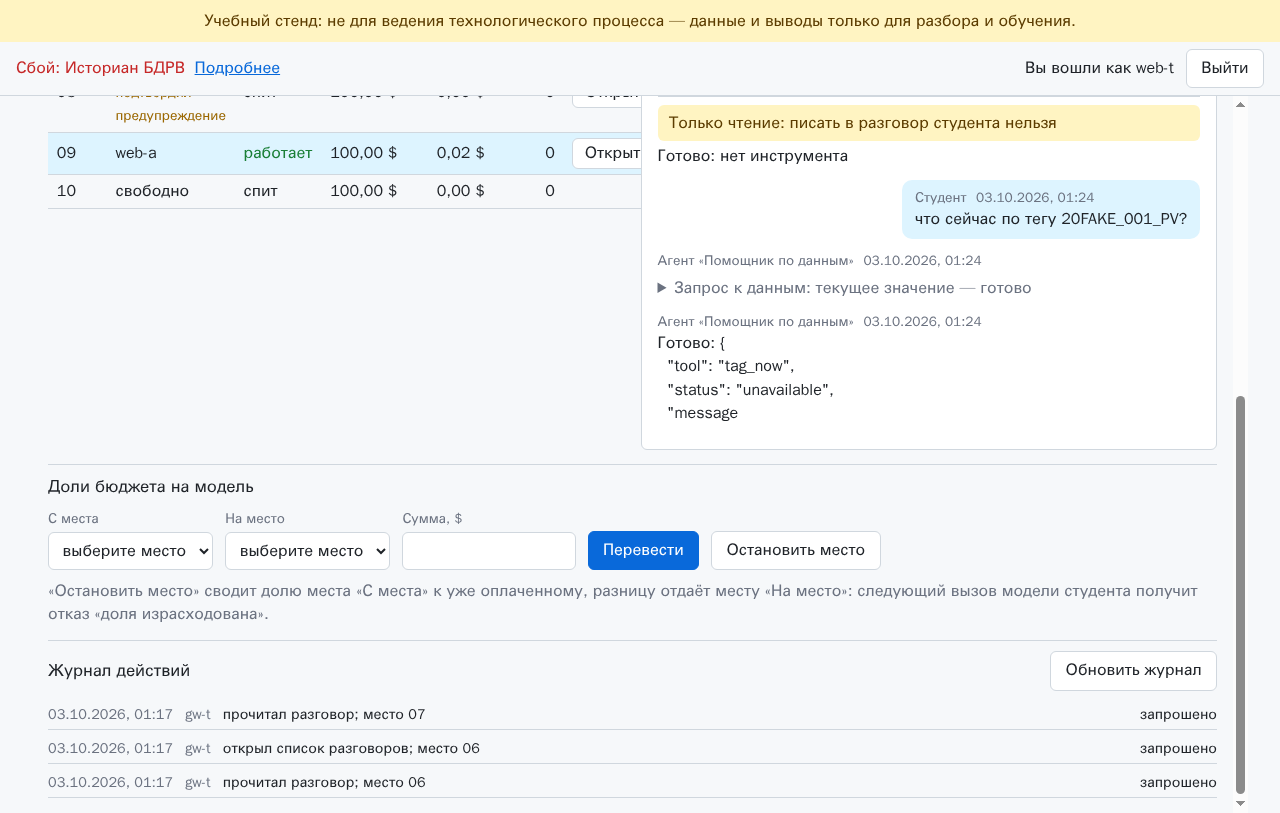
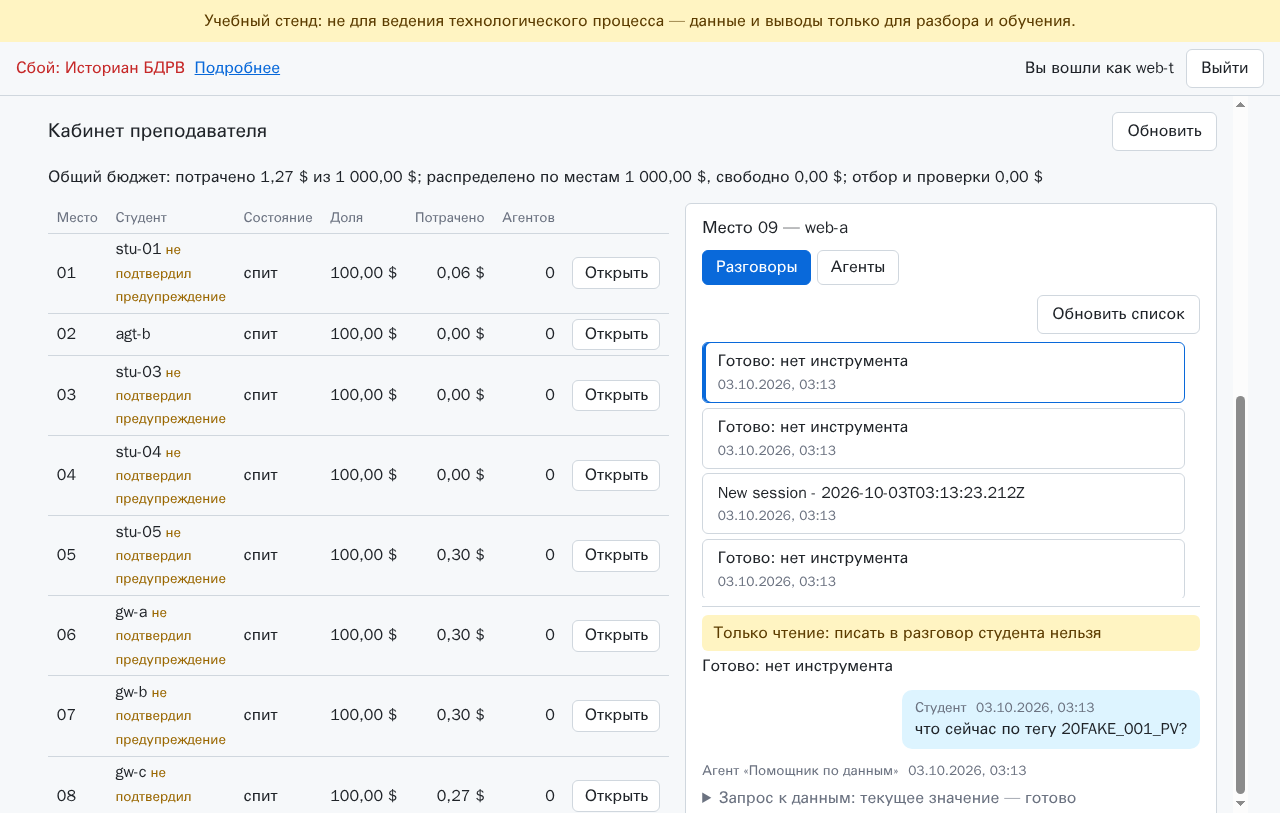
Д10а: итог дня по блоку «закрыт, если» — полный прогон интеграции на голове итоговой доводки, наборы, снимок 02 переснят; пуш ветки — за владельцем

diff --git a/docs/checks/D10a.md b/docs/checks/D10a.md
@@ -33,8 +33,8 @@
 `pcbk-test/fake-openrouter:d10a` и настоящий Chrome (`cdp.py`), **не на
 сервере**; ни денег OpenRouter, ни историана. Учётки тестов: `web-a`
 (место 09) и `web-t` (преподаватель) — `tests/integration/test_web.py`;
-`gw-a` (место 06) и `gw-t` (преподаватель) — `test_gateway.py`. Коммит
-`08ea8393`.
+`gw-a` (место 06) и `gw-t` (преподаватель) — `test_gateway.py`. Коммит А5 —
+`08ea8393`, итоговая доводка — `fa68faed` (голова полного прогона ниже).
 
 - **Кабинет читает разговор в браузере**
   (`test_teacher_cabinet_reads_conversation`, Review Focus 1, 2, 7).
@@ -44,16 +44,33 @@
   места 09, первый разговор — в стенограмме вопрос студента и ответ
   «Готово…», полей ввода в стенограмме 0. Все запросы вкладки к
   `/pcbk/api/teacher/places/` — только GET, к `/pcbk/api/oc/` — ни одного.
-  `/health/teacher`: `reads_1h` вырос не меньше чем на 2. Студент со своей
+  `/health/teacher`: `reads_1h` вырос не меньше чем на 2. Таблица мест не
+  заходит под панель открытого места: правый край таблицы и каждой кнопки
+  «Открыть» левее панели — и как есть, и при самой широкой строке (логин в
+  32 знака и все пометки учётки; итоговая доводка, m-1 итогового ревью: без
+  правки колонки — «таблица до 834, панель с 640», красный). Студент со своей
   страницы просит обзор кабинета — 403 от сервера, `role_refused_1h` —
   ровно +1. CSP и консоль чистые. Снимки:
   - [`D10a/d10a-01-cabinet.png`](D10a/d10a-01-cabinet.png) — десять мест
     (логин или «свободно», состояние, доля 100,00 $, потрачено, агентов),
     строка общего бюджета, «Открыть» у мест со студентом;
-  - [`D10a/d10a-02-reader.png`](D10a/d10a-02-reader.png) — разговор места 09:
-    плашка «Только чтение: писать в разговор студента нельзя», вопрос по
-    `20FAKE_001_PV`, вызов инструмента, ответ двойника; ниже — журнал
-    действий, три строки `gw-t` «запрошено». [Л]
+  - [`D10a/d10a-02-reader.png`](D10a/d10a-02-reader.png) — переснят в
+    итоговой доводке из полного прогона на голове: слева таблица мест с
+    учётками тестов прогона, все кнопки «Открыть» видны целиком; справа место
+    09 — список разговоров, плашка «Только чтение: писать в разговор
+    студента нельзя», вопрос по `20FAKE_001_PV` и строка вызова инструмента
+    (ответ двойника — ниже края снимка, его текст сверяет тест). [Л]
+- **«Разбудить для просмотра» от начала до конца**
+  (`test_teacher_wakes_sleeping_place_to_read`, критерий успеха 1; итоговая
+  доводка, m-3 итогового ревью). У `web-a` на месте 09 есть разговор, место
+  остановлено (`docker stop`), кабинет видит его спящим. `web-t` в браузере:
+  «Открыть» у места 09 — «Рабочее место студента спит — разбудите его для
+  просмотра» и кнопка, контейнер места при этом не запущен (чтение не
+  будит). Нажатие — один `POST …/places/09/wake` с ответом 202, опрос места
+  кабинета, контейнер запущен, список разговоров на странице. Журнал
+  действий (команда администратора): новых строк ровно три — `sessions`,
+  `wake`, `sessions` от `web-t` с местом 09, все «запрошено»; к
+  `/pcbk/api/workplace` и `/pcbk/api/oc/` вкладка не ходила. [Л]
 - **Через `edge` и настоящий OpenCode места 06**
   (`test_teacher_api_through_edge`, Review Focus 1, 2). Студент `gw-a`:
   обзор кабинета — 403, свой же разговор через кабинет — 403 «Только для
@@ -69,9 +86,12 @@
   разговора; строк студента нет. [Л]
 - **Доля → отказ → ответ** (`test_teacher_share_flips_student_refusal`,
   Review Focus 3, критерий успеха 3, B-1). `web-a` задаёт вопрос со словом
-  `FAKEDEAR` — вызов стоит $0,5037, расход не кратен центу. Преподаватель —
-  `POST /pcbk/api/teacher/shares/floor` (место 09 → 10): 200, доля места 09
-  не выше пола и меньше прежней, потрачено не меньше $0,5037. Следующий же
+  `FAKEDEAR` — вызов стоит $0,5037, расход не кратен центу. Преподаватель во
+  вкладке кабинета выбирает «С места» 09, «На место» 10 и нажимает
+  «Остановить место» (итоговая доводка, m-2 итогового ревью): ровно один
+  `POST /pcbk/api/teacher/shares/floor` с ответом 200, на странице «Доли
+  обновлены», запроса перевода `shares` нет; по обзору доля места 09 не выше
+  пола и меньше прежней, потрачено не меньше $0,5037. Следующий же
   вопрос студента — «Ваша доля бюджета на модель израсходована» —
   [`D10a/d10a-03-share-spent.png`](D10a/d10a-03-share-spent.png). Перевод
   $1 с места 10 на 09 — 200, и следующий вопрос снова получает ответ. CSP
@@ -90,25 +110,23 @@
     journal_down»; `store_ok` — false —
     [`D10a/d10a-05-journal-row.png`](D10a/d10a-05-journal-row.png).
   - После — `core` без учений, доли как были, строка — «норма» (до 90 с). [Л]
-- **Прогоны.** Весь `tests/integration` под общим замком — **188 passed,
-  6 skipped** (из 194) за 51 мин 51 с; пропуски — `test_gateway_live`:
-  живые проверки сервера без `PCBK_LIVE_*`, по замыслу. Модули кабинета
-  `test_edge`, `test_gateway` и `test_web` на `aafbeed` с файлами А5 (то же
-  содержимое, что `08ea8393`) — **65 passed** за 12 мин 17 с; снимки в git —
-  из этого прогона. Снимки откатных образов до и после каждого прогона —
-  `diff` пуст; контейнеров `pcbk-test` и сетей `pcbk-*` после — 0. [Л]
+- **Прогоны.** Весь `tests/integration` одним прогоном под общим замком на
+  голове итоговой доводки `fa68faed` (чистая копия `git archive` и временный
+  git для `build_test_static`) — **189 passed, 6 skipped** (из 195) за
+  51 мин 56 с; пропуски — `test_gateway_live`: живые проверки сервера без
+  `PCBK_LIVE_*`, по замыслу. В нём и четыре теста кабинета п. 2 блока
+  «Д10а закрыт, если», и `test_socket_proxy::test_status_json_overall_ok`
+  (строка кабинета `ok` к модулю сокета, m-2 ревью А1). Снимок 02 в git —
+  из этого прогона, 01, 03–05 — из прогона А5 (`test_edge`, `test_gateway`,
+  `test_web` на `aafbeed0` с файлами А5 — 65 passed). Прогоны А5 до доводки:
+  весь набор на `3c4a9648` с файлами А5 — 188 passed, 6 skipped. Снимки 25
+  откатных образов до и после каждого прогона — строк «none» 0, `diff` пуст;
+  контейнеров `pcbk-test` и сетей `pcbk-*` после — 0. [Л]
 - **Оговорки.**
-  - Полный прогон шёл на `3c4a964` с файлами А5: он начался до доводки
-    `aafbeed` (одиночный суррогат в ответе места — U+FFFD, а не 500;
-    строка «ok» журнала службы — после сборки ответа). Доводка трогает
-    только `transcript.py`, `teacher_api.py` и двойник места; на ней
-    повторены модули кабинета (выше). Весь `tests/integration` на голове
-    ветки — в итоговой доводке Д10а.
-  - В тестах доли и учений преподаватель действует клиентом шлюза через
-    `edge`, а не кнопкой. Кнопку «Остановить место» (пол считает сервер,
-    обзор — заново) проверяет Vitest
-    `stop_place_button_calls_server_and_reloads`. В браузере — сторона
-    студента и чтение разговора.
+  - «Остановить место» преподаватель нажимает в браузере; возврат $1, доли
+    в учениях и уборка долей — клиентом шлюза через `edge`. Кнопку
+    «Перевести» в браузере интеграция не нажимает: тело перевода, отказы и
+    обзор после него проверяет Vitest (`transfer_*`, `share_refusal_*`).
   - «Сбой: Историан БДРВ» в шапке и на странице состояния — у тестового
     стенда нет историана; поэтому и ответ двойника в стенограмме — `tag_now`
     со статусом `unavailable`. Суммы в строке «LLM-прокси и бюджет» на
@@ -172,3 +190,75 @@
   выкладка — одним окном с Д10б (Б4). Критик А7 (шаг 2), итог дня по блоку
   «Д10а закрыт, если» и пуш ветки (шаг 5) — дальше; слияние в `main` и тег
   `platform-d10a` — после `platform-d9b` (А7, шаг 6, или Б0, шаг 3а). [Л]
+
+## Итоговая доводка (А7, шаг 2: после критика)
+
+Критик А7 (итоговое ревью ветки и ревью А5): блокеров кода 0, Important 1 —
+полный прогон интеграции на голове (I-1), Minor 5; к ним — отложенные Minor
+ревью А1–А4. Доводка — четыре коммита кода и тестов: ревью А2 `63f00536`,
+А3 `91b4e71c`, А4 `1ac4bcc1`, итоговое ревью `fa68faed`. Каждая правка кода —
+с тестом, красным без неё (мутации в отдельной копии: core 15 из 15, веб 19
+из 19, колонка таблицы — интеграция, выше). [Л]
+
+- **Ревью А2.** Сверка долей читает центы прокси под тем же замком, что
+  перевод: перевод посреди такта не даёт ложного `fail` на такт (m-1).
+  Журнал действий, не открывшийся при запуске, пульс такта уборщика
+  открывает сам — `store_ok` возвращается без перезапуска `core` (m-6).
+  Тесты: CAS «было» — по диску (m-3); память после перевода — прежняя плюс
+  изменённые места (m-4); две вкладки разом — чередование наверняка (m-5).
+  Правило логина и номера мест — из одного места (m-7). Формула пола
+  `floor_cents` не тронута.
+- **Ревью А3.** Сообщение не этого разговора в ответе места — 502 «не по
+  договору» (m-1); отказ `bad` перевода пишет в журнал только причину, без
+  чисел клиента (m-3); 404 по частям пути — тоже строка `gw teacher …
+  outcome=not_found` (m-4); тесты имени агента в маршруте, пределов ввода
+  инструмента и ошибки, `shares/floor` в «студент ничего не тронул» (m-2).
+- **Ревью А4.** Неудачный обзор после изменения не стирает страницу:
+  таблица, открытый разговор и «Доли обновлены» остаются, причина — строкой
+  «Обзор не обновился: …» (m-1); запасные тексты кабинета — «…сообщите
+  администратору стенда», не «преподавателю» (m-4); место без учётки за
+  удалённым логином в списках долей — «без учётки» (m-5); подписи кодов —
+  только своими ключами словаря (m-6); «Скрыть инструкцию» — только у
+  показанной, после отказа — снова «Показать» (m-7); тесты: 503 журнала на
+  списке — без кнопки «Разбудить» (m-2), 401 каждой ручки и защёлка входа,
+  снятие во время пробуждения снимает оба таймера, повтор после неудачного
+  пробуждения, поздние ответы обзора и списка (m-3).
+- **Итоговое ревью.** Колонка таблицы мест не уже самой таблицы (m-1),
+  «Остановить место» кнопкой (m-2), пробуждение для просмотра на стенде
+  (m-3), пересоздание `core` под учением — внутри `try`, доли возвращаются и
+  при сбое пересоздания (m-4), лишней вкладки нет — она нажимает кнопку
+  (m-5).
+- **Наборы на голове `fa68faed`** (чистая копия `git archive`):
+  `(cd core && CORE_PYTEST)` — 1561 passed, 2 skipped (пропуски — прежние,
+  `test_egress`); сторож — 233 passed и `node --test` 13/13; `edge` —
+  23/23; веб — Vitest 18 файлов, 279 passed, `node --test` 7/7, `tsc` —
+  0 ошибок, сборка и `check-dist` — без ошибок; тестов с телом `...` или
+  `pass` и пустых `test(…, () => {})` — 0. [Л]
+
+## Д10а закрыт, если — итог дня (А7, шаг 5)
+
+1. **Наборы зелёные на голове** — да: `fa68faed`, числа выше. [Л]
+2. **Интеграция зелёная одним прогоном** — да: весь `tests/integration` на
+   `fa68faed` — 189 passed, 6 skipped (из 195), в том числе
+   `test_teacher_cabinet_reads_conversation`,
+   `test_teacher_share_flips_student_refusal`, `test_teacher_row_drills`,
+   `test_teacher_api_through_edge` и новый
+   `test_teacher_wakes_sleeping_place_to_read`. [Л]
+3. **Снимки** `D10a/d10a-01…05` — в git, каждый просмотрен глазами: только
+   `20FAKE_001_PV`, учётки тестов и суммы двойника, паролей нет; текстовых
+   блоков PNG нет. 02 переснят в доводке. [Л]
+4. **Критик А7** — ноль блокеров кода (итоговое ревью ветки); его
+   единственный открытый пункт (I-1, п. 2) закрыт прогоном выше. [Л]
+5. **Ветка запушена** — **нет, ждёт владельца**: пуш `d10a/teacher` на
+   `origin` — в ручном режиме владельца (решение контроллера). План и факт
+   (`pace`) — выше; п. 2 — «Прогоны» и этот блок, п. 4 — итоговое ревью
+   ветки и «Итоговая доводка» выше. [Л]
+6. **Строка владельцу.** Кабинет преподавателя на тестовом стенде: десять
+   мест с долями, чтение разговора только на чтение, спящее место будится
+   кнопкой, «Остановить место» даёт студенту отказ «доля израсходована»,
+   возврат — снова ответ, строка «Кабинет преподавателя и доли» краснеет
+   под учениями (снимки 01–05). Выкладка Д10а — одним окном с Д10б (Б4);
+   слияние в `main` и тег `platform-d10a` — после `platform-d9b` (Б0,
+   шаг 3а). [Л]
+
+**Д10а по коду и стенду закрыт; открыт только п. 5 — пуш ветки владельцем.**
